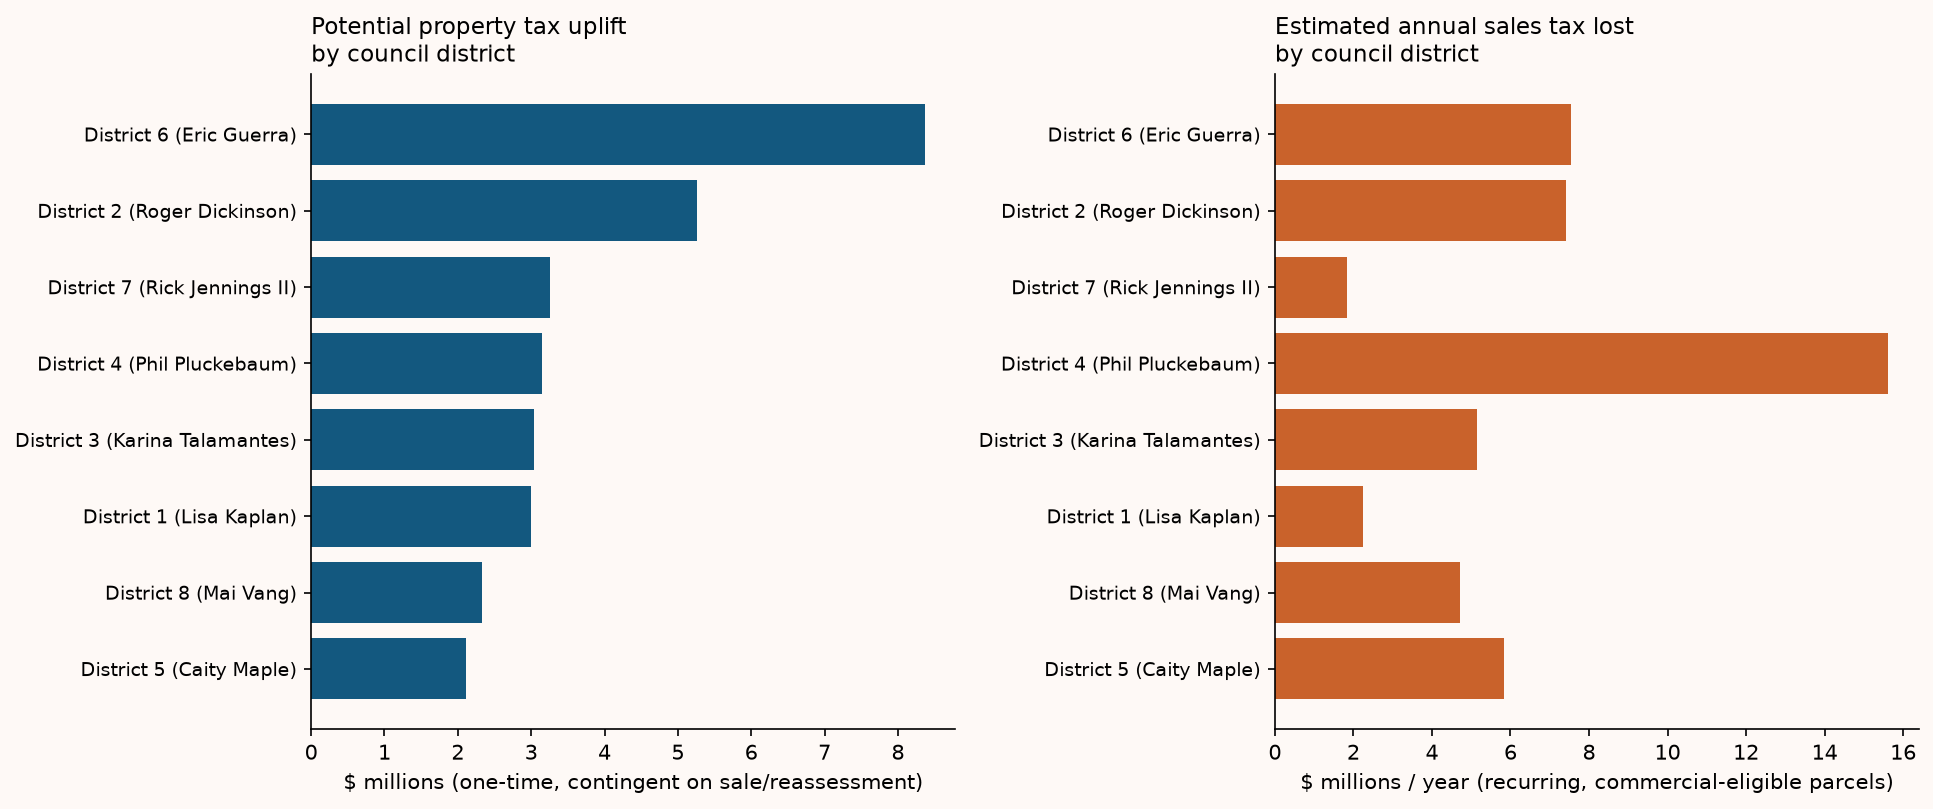
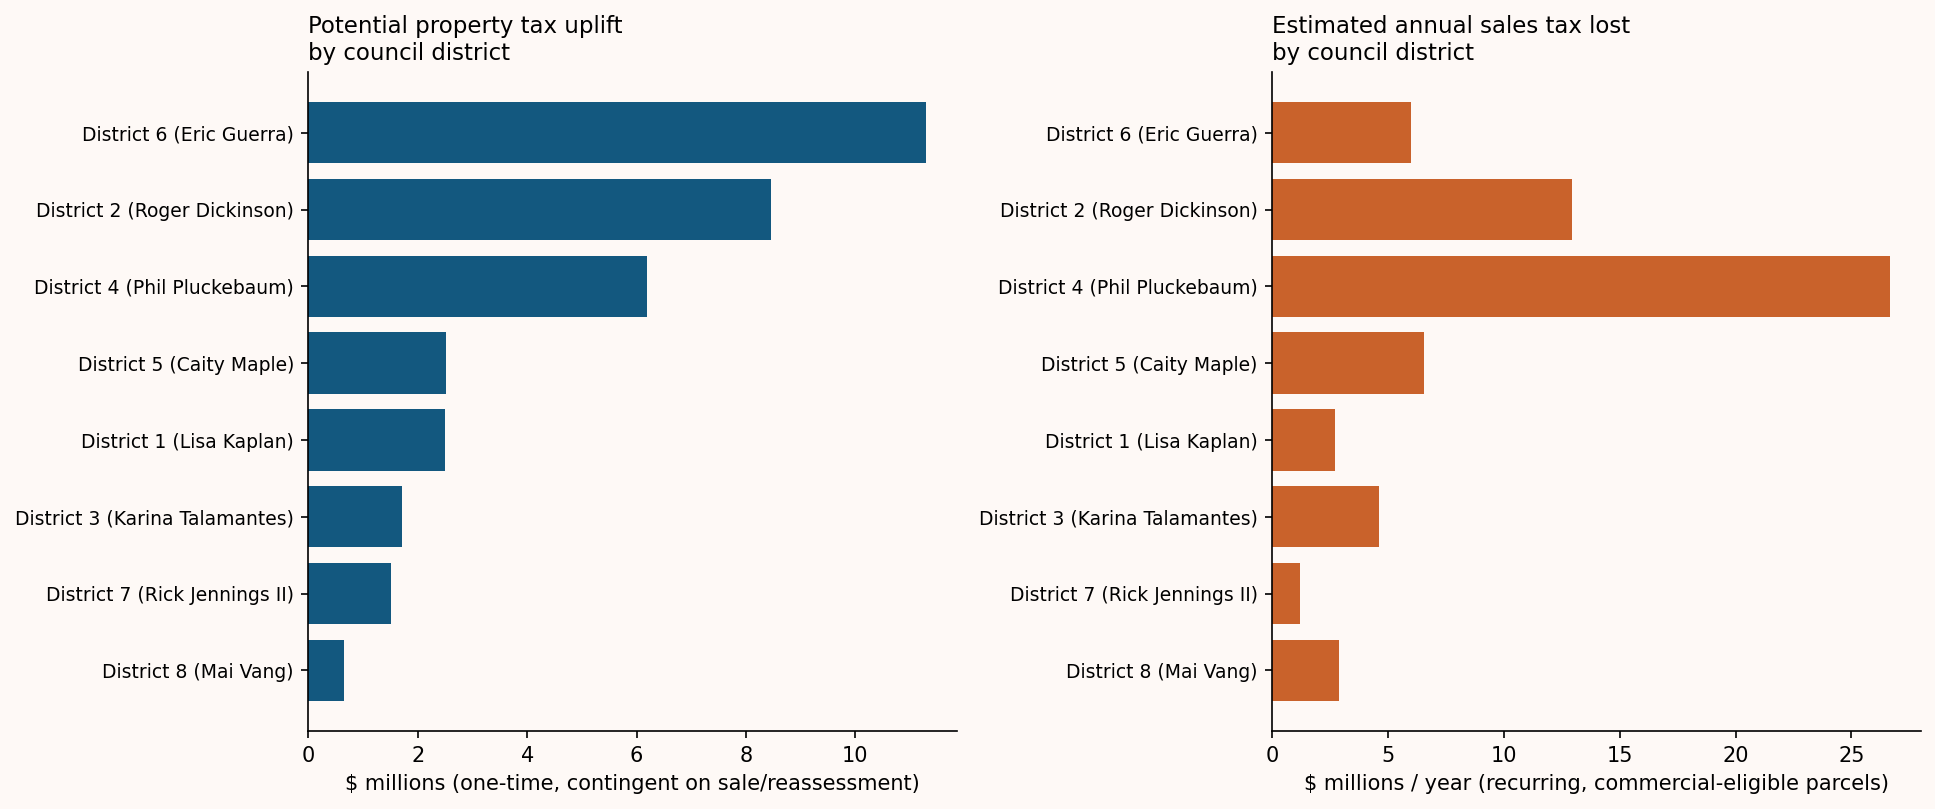
Revenue methodology: marsh/drainage cap fix, refresh after cache rebuild
Marsh/drainage/submerged-vacant parcels were still going through the
general $500/sqft cap, which produces a huge ceiling regardless of
whether the land is buildable -- a Natomas drainage parcel assessed
at $69 was landing at a modeled $1.05M. Those now fall back to the
assessed-value-multiple cap unconditionally, same as parcels missing
LOT_SIZE_AREA.

Also refreshes every downstream number after ca_property_estimator's
DUPLICATE_SUMS fix (see METHODOLOGY.md's Data refresh note): citywide
$34.8M potential property tax uplift, $63.5M annual sales tax across
all jurisdictions ($14.5M city share).

diff --git a/revenue_impact/estimate_lost_revenue.py b/revenue_impact/estimate_lost_revenue.py
@@ -25,7 +25,8 @@ Inputs:
         (park-excluded vacant parcel list -- run
         hackathon_data/qc_vacancy_exclusions.py first if this doesn't exist yet)
     ../ca_property_estimator/results/parcels_market_value_estimated.csv
-        (run ca_property_estimator/scripts/export_vacancy_fee_estimates.py first)
+        (ca_property_estimator is an external project, CARB AB 2446, not part
+        of this repo -- get its output CSV from a teammate and place it here)
     ../maps/data/council_districts.geojson
 
 Outputs:
@@ -70,6 +71,17 @@ SALES_TAX_RATE_CITY = 0.02         # city-specific share (1% Bradley-Burns + 1% 
 # value for the ~2.6% of parcels missing LOT_SIZE_AREA.
 MAX_DOLLAR_PER_SQFT = 500
 FALLBACK_ASSESSED_MULTIPLE = 100   # used only when LOT_SIZE_AREA is missing
+
+# Marsh/drainage/submerged parcels: $500/sqft assumes buildable urban land,
+# which these explicitly aren't (that's the whole point of the use code) --
+# 1,075 citywide have a median est_market_value/VAL_ASSD ratio of 72x and a
+# max of 203,000x under the general per-sqft cap, because a large lot size
+# times $500/sqft produces a huge ceiling regardless of whether the land is
+# a retention basin. Found via a real example: 3497 San Juan Rd, a Natomas
+# drainage/detention parcel assessed at $69, was landing at a modeled
+# $1.05M. These fall back to the assessed-multiple cap unconditionally,
+# same as parcels missing LOT_SIZE_AREA.
+NON_BUILDABLE_USE_CODES = {"WASTE LAND, MARSH, SWAMP, SUBMERGED-VACANT LAND"}
 
 COMMERCIAL_USE_PATTERN = re.compile(r"COMMERCIAL|RETAIL")
 
@@ -131,8 +143,9 @@ def load_parcels() -> pd.DataFrame:
         raise SystemExit(f"{VACANT_CSV} not found -- run hackathon_data/qc_vacancy_exclusions.py first")
     if not ESTIMATES_CSV.exists():
         raise SystemExit(
-            f"{ESTIMATES_CSV} not found -- run "
-            "ca_property_estimator/scripts/export_vacancy_fee_estimates.py first"
+            f"{ESTIMATES_CSV} not found -- ca_property_estimator is an external "
+            "project (CARB AB 2446), not part of this repo. Get its output CSV "
+            "from a teammate and place it at that path."
         )
 
     vacant = pd.read_csv(
@@ -163,10 +176,11 @@ def cap_market_value(df: pd.DataFrame) -> pd.DataFrame:
     df["est_market_value_uncapped"] = df["est_market_value"]
 
     has_lot = df["LOT_SIZE_AREA"].fillna(0) > 0
+    is_non_buildable = df["USE_CODE_STD_DESC_LPS"].isin(NON_BUILDABLE_USE_CODES)
     per_sqft_cap = df["LOT_SIZE_AREA"] * MAX_DOLLAR_PER_SQFT
     assessed_cap = df["VAL_ASSD"].fillna(0) * FALLBACK_ASSESSED_MULTIPLE
 
-    cap = np.where(has_lot, per_sqft_cap, assessed_cap)
+    cap = np.where(has_lot & ~is_non_buildable, per_sqft_cap, assessed_cap)
     capped_mask = df["est_market_value"].fillna(0) > cap
     df["est_market_value"] = np.where(capped_mask, cap, df["est_market_value"])
 

diff --git a/revenue_impact/METHODOLOGY.md b/revenue_impact/METHODOLOGY.md
@@ -15,6 +15,38 @@ should never be added together without saying so:
   lot sits empty instead of housing a business, that's real foregone taxable
   sales, no reassessment trigger required.
 
+## Data refresh (2026-07-26)
+
+The parcel cache and every dollar figure in this file were rebuilt after
+fixing a bug in `ca_property_estimator/src/data_loader.py`'s `build_query()`:
+the per-parcel scoring query included `AND DUPLICATE_SUMS = FALSE`, which
+silently dropped every parcel flagged as a duplicate-sum record from the
+full statewide pull, not just from the aggregate stats where that flag is
+meant to apply. Multi-unit buildings and condo associations were hit
+hardest. The clearest local example: 2417 J St in Sacramento, a highrise
+apartment building, used to split into a dozen-plus fragmentary records
+with nonsensical assessed values (several under $1,000, one at $10) instead
+of resolving to its two real APNs. The fixed query recovered 45,724
+previously-dropped parcels statewide (10,229,180 rows total), and 2417 J St
+now resolves cleanly to APNs 00700320240000 and 00700320260000.
+
+This changed the totals below but not the underlying methodology. Current
+run: 24,077 countywide vacant parcels (23,143 matched a market-value
+estimate), 6,518 within Sacramento city limits, 1,487 of those capped by
+`cap_market_value()` (removing $6.9B in phantom valuation from the city
+subset). Citywide headline totals: **$34.8M** potential property tax
+uplift, **$63.5M** annual sales tax across all jurisdictions, **$14.5M** of
+that as the city's own share. District 3: 486 vacant parcels, $1.7M
+potential uplift, $4.6M annual sales tax total / $1.05M city share.
+
+The specific illustrative numbers in the "Sanity cap" section right below
+(the $7,107.14/sqft cluster, the $276M parcel, the 2,702-parcel count) were
+measured on the pre-fix run and haven't been individually re-checked
+against the new cache. The capping mechanism they describe is unchanged
+and still active — a spot check on the current city subset shows the same
+pattern (an industrial-vacant parcel modeling out to $158M pre-cap, cut to
+$21.6M), just not re-verified figure by figure.
+
 ## Sanity cap on est_market_value (applied before everything below)
 
 `ca_property_estimator`'s land-value model produces a small but consequential
@@ -44,6 +76,22 @@ a large swing, but in the direction of *removing* a fabrication, not
 introducing one. `est_market_value_uncapped` is preserved in
 `parcel_revenue_estimates.csv` for anyone who wants to audit exactly which
 parcels were capped and by how much.
+
+**Marsh/drainage parcels get a tighter cap.** $500/sqft assumes buildable
+urban land, which "WASTE LAND, MARSH, SWAMP, SUBMERGED-VACANT LAND"
+parcels explicitly aren't (that's what the use code means, and it's a
+legitimate, unedited allowlist entry in `qc_vacancy_exclusions.py`, not a
+miscoded structure). A large lot size times $500/sqft produces a huge
+ceiling regardless of whether the land is a retention basin, so these
+1,075 citywide parcels (median assessed/market ratio 72x, worst case
+203,000x) fall back to the assessed-value-multiple cap unconditionally,
+same as parcels missing `LOT_SIZE_AREA`. Found via a real example flagged
+by a campaign volunteer: 3497 San Juan Rd, a Natomas drainage/detention
+parcel assessed at $69, was landing at a modeled $1.05M before this fix.
+`NON_BUILDABLE_USE_CODES` in `estimate_lost_revenue.py` is the one-item
+set this currently checks; District 3 (mostly Natomas basin geography)
+is disproportionately affected, at 188 of its 486 flagged vacant
+parcels (39%) being this use code, against 16% citywide.
 
 ## Property tax uplift
 
@@ -146,8 +194,8 @@ current Sacramento city council districts). This module is scoped to the
 district polygons — unincorporated county land, or another incorporated city
 in the countywide vacant-parcel set (Elk Grove, Folsom, Citrus Heights,
 Rancho Cordova, Galt) — is outside city limits and is dropped before any
-totals are computed, not carried through and footnoted. Of the 28,426
-countywide vacant parcels, 8,489 (30%) are within city limits and make up
+totals are computed, not carried through and footnoted. Of the 24,077
+countywide vacant parcels, 6,518 (27%) are within city limits and make up
 this module's entire output.
 
 ## Known limitations
